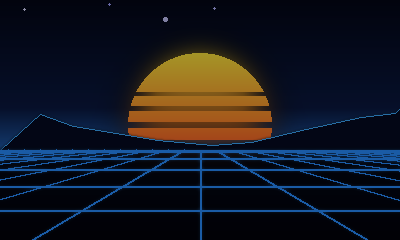
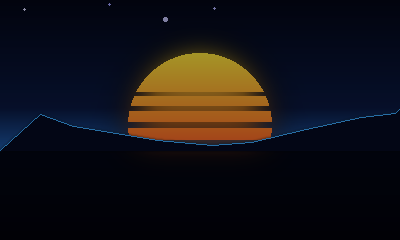
Library: live scrolling grid, 3D depth layers, spring animations
- floor grid drawn live and scrolling; sky, grid, covers and title sit
  at different depths when the 3D slider is up (UI screens can now
  draw per eye via ui_depth())
- carousel moves on a spring, the new cover pops with overshoot and
  bobs, the title slides/fades in, fade-in on open, cover zooms toward
  you and fades out on launch

diff --git a/psx3d/source/libui.c b/psx3d/source/libui.c
@@ -16,7 +16,13 @@ static bool bg_ok;
 static C2D_TextBuf tbuf;
 
 static int sel, list_top;
-static float anim;                 // carousel position, eases toward sel
+static float anim, anim_v;         // carousel position (spring toward sel) and velocity
+static float pop = 1, pop_v;       // selected cover scale (spring, overshoots)
+static float title_t = 1;          // 0..1 title slide/fade-in after a change
+static int title_for = -1;         // game the title animation belongs to
+static float clock_s;              // seconds since the screen opened
+static float fade = 1;             // 1 = black, eases to 0 on open
+static float launch_t = -1;        // >= 0 while the launch zoom plays
 static int rep_l, rep_r, rep_u, rep_d, rep_pl, rep_pr;
 
 // PS-era accent colours, one per game in turn
@@ -79,32 +85,54 @@ static float text_width(C2D_Font font, float size, const char *s)
 }
 
 // a cover, or a placeholder card with the game's initial
-static void draw_cover(int i, float cx, float cy, float size, float dim)
+static void draw_cover(int i, float cx, float cy, float size, float dim, float z)
 {
 	const game_t *g = library_get(i);
 	if (!g)
 		return;
 	float x = cx - size / 2, y = cy - size / 2;
-	// drop shadow
-	C2D_DrawRectSolid(x + 3, y + 4, 0.4f, size, size, C2D_Color32(0, 0, 0, 120));
+	// drop shadow on the "floor", a little behind the cover
+	C2D_DrawRectSolid(x + 4 + ui_depth(1.5f), y + 6, z - 0.01f, size, size, C2D_Color32(0, 0, 0, 110));
 	C3D_Tex *t = covers_get(i);
 	if (t) {
 		Tex3DS_SubTexture st = { COVER_SIZE, COVER_SIZE, 0.0f, 1.0f, 1.0f, 0.0f };
 		C2D_Image img = { t, &st };
 		C2D_ImageTint tint;
 		C2D_PlainImageTint(&tint, C2D_Color32(0, 0, 0, 255), dim);
-		C2D_DrawImageAt(img, x, y, 0.5f, dim > 0 ? &tint : NULL, size / COVER_SIZE, size / COVER_SIZE);
+		C2D_DrawImageAt(img, x, y, z, dim > 0 ? &tint : NULL, size / COVER_SIZE, size / COVER_SIZE);
 	} else {
 		u32 c = *accent(i);
-		C2D_DrawRectangle(x, y, 0.5f, size, size, C2D_Color32(20, 26, 60, 255), C2D_Color32(20, 26, 60, 255),
+		C2D_DrawRectangle(x, y, z, size, size, C2D_Color32(20, 26, 60, 255), C2D_Color32(20, 26, 60, 255),
 			C2D_Color32(8, 10, 28, 255), C2D_Color32(8, 10, 28, 255));
-		C2D_DrawRectSolid(x, y + size - 6, 0.5f, size, 6, c);
+		C2D_DrawRectSolid(x, y + size - 6, z, size, 6, c);
 		char initial[2] = { g->title[0], 0 };
 		float s = size / 60.0f;
-		C2D_Font f = title_font ? title_font : NULL;
-		text(f, cx, cy - 14 * s, s, C2D_Color32(220, 225, 245, 255), C2D_AlignCenter, initial);
+		text(title_font, cx, cy - 14 * s, s, C2D_Color32(220, 225, 245, 255), C2D_AlignCenter, initial);
 		if (dim > 0)
-			C2D_DrawRectSolid(x, y, 0.55f, size, size, C2D_Color32(0, 0, 0, (u8)(dim * 255)));
+			C2D_DrawRectSolid(x, y, z + 0.005f, size, size, C2D_Color32(0, 0, 0, (u8)(dim * 255)));
+	}
+}
+
+// the neon floor, scrolling toward the viewer; each line gets its own depth
+// so the floor recedes into the screen in 3D
+static void draw_grid(void)
+{
+	const float hy = 150, cx = 200;
+	u32 col = C2D_Color32(40, 140, 255, 255), glow = C2D_Color32(40, 140, 255, 70);
+	float scroll = fmodf(clock_s * 0.35f, 1.0f);
+	for (int k = 0; k < 9; k++) {
+		float u = (k + scroll) / 8.0f;           // 0 at the horizon .. 1 at the bottom
+		float y = hy + powf(u, 2.2f) * (240 - hy);
+		if (y > 240) continue;
+		float d = 3.0f * (1.0f - u) - 0.5f;      // far lines deep behind, near ones at the surface
+		float dx = ui_depth(d);
+		C2D_DrawRectSolid(dx, y - 1, 0.15f, 400, 3, glow);
+		C2D_DrawRectSolid(dx, y, 0.16f, 400, 1.2f + 1.2f * u, col);
+	}
+	for (int i = -12; i <= 12; i++) {
+		float x0 = cx + i * 16.0f, x1 = cx + i * 168.0f;
+		C2D_DrawLine(x0 + ui_depth(2.5f), hy, glow, x1 + ui_depth(-0.5f), 240, glow, 4, 0.15f);
+		C2D_DrawLine(x0 + ui_depth(2.5f), hy, col, x1 + ui_depth(-0.5f), 240, col, 1.5f, 0.16f);
 	}
 }
 
@@ -113,10 +141,12 @@ static void draw_top(void *ud)
 	(void)ud;
 	int n = library_count();
 	if (bg_ok)
-		C2D_DrawImageAt(bg_img, 0, 0, 0.1f, NULL, 1.0f, 1.0f);
+		C2D_DrawImageAt(bg_img, ui_depth(3.0f), 0, 0.1f, NULL, 1.0f, 1.0f);   // sky: far back
+	draw_grid();
 
 	// carousel: neighbours first so the selection sits on top
 	float spacing = 116.0f;
+	float bob = sinf(clock_s * 2.0f) * 2.0f;
 	for (int k = 3; k >= 0; k--)
 		for (int side = -1; side <= 1; side += 2) {
 			if (k == 0 && side == 1)
@@ -127,28 +157,51 @@ static void draw_top(void *ud)
 			float d = i - anim;                       // distance from centre
 			float ad = fabsf(d);
 			float size = ad < 1 ? 136 - 48 * ad : 88 - 8 * (ad - 1);
-			float cx = 200 + d * spacing;
+			float cy = 96;
+			if (i == sel) {
+				size *= pop;
+				cy += bob;
+			}
+			if (launch_t >= 0 && i == sel) {
+				// launch: the cover rushes toward you
+				float e = launch_t * launch_t;
+				size *= 1 + e * 2.2f;
+				cy += e * 20;
+			}
+			float depth = ad < 0.5f ? -1.2f + 2.4f * ad : 0.6f + 0.4f * ad;   // selected pops out
+			float cx = 200 + d * spacing + ui_depth(depth);
 			float dim = ad < 1 ? 0.55f * ad : 0.55f + 0.1f * (ad - 1);
 			if (dim > 0.85f) dim = 0.85f;
-			draw_cover(i, cx, 96, size, dim);
+			draw_cover(i, cx, cy, size, dim, 0.5f - ad * 0.02f);
 		}
 
 	const game_t *g = library_get(sel);
-	if (!g)
-		return;
-	// title: brand font, shrunk to fit
-	C2D_Font f = title_font;
-	float size = 0.9f;
-	float w = text_width(f, size, g->title);
-	if (w > 380)
-		size *= 380 / w;
-	text(f, 201, 179, size, C2D_Color32(0, 0, 0, 160), C2D_AlignCenter, g->title);
-	text(f, 200, 178, size, C2D_Color32(255, 255, 255, 255), C2D_AlignCenter, g->title);
-	if (g->ndiscs > 1) {
-		char d[32];
-		snprintf(d, sizeof(d), "%d discs", g->ndiscs);
-		text(NULL, 200, 214, 0.45f, C2D_Color32(170, 185, 230, 255), C2D_AlignCenter, d);
+	if (g && launch_t < 0) {
+		// title slides up and fades in after the selection changes
+		float e = 1 - (1 - title_t) * (1 - title_t);
+		u8 a = (u8)(255 * e);
+		float ty = 178 + (1 - e) * 10;
+		C2D_Font f = title_font;
+		float size = 0.9f;
+		float w = text_width(f, size, g->title);
+		if (w > 380)
+			size *= 380 / w;
+		float tx = 200 + ui_depth(-0.8f);   // floats just in front of the screen
+		text(f, tx + 1, ty + 1, size, C2D_Color32(0, 0, 0, a * 5 / 8), C2D_AlignCenter, g->title);
+		text(f, tx, ty, size, C2D_Color32(255, 255, 255, a), C2D_AlignCenter, g->title);
+		if (g->ndiscs > 1) {
+			char dd[32];
+			snprintf(dd, sizeof(dd), "%d discs", g->ndiscs);
+			text(NULL, tx, ty + 36, 0.45f, C2D_Color32(170, 185, 230, a), C2D_AlignCenter, dd);
+		}
 	}
+
+	// fade from/to black (open, launch)
+	float f = fade;
+	if (launch_t >= 0)
+		f = launch_t > 0.4f ? (launch_t - 0.4f) / 0.6f : 0;
+	if (f > 0.001f)
+		C2D_DrawRectSolid(0, 0, 0.9f, 400, 240, C2D_Color32(0, 0, 0, (u8)(255 * (f > 1 ? 1 : f))));
 }
 
 static void draw_bottom(void *ud)
@@ -203,6 +256,7 @@ void libui_select_title(const char *title)
 		if (!strcmp(library_get(i)->title, title)) {
 			sel = i;
 			anim = i;
+			title_for = i;
 			clamp_list();
 			return;
 		}
@@ -224,6 +278,8 @@ int libui_run(char *out_path, size_t len)
 	clamp_list();
 
 	music_play(true);
+	ui_wants_3d = true;
+	fade = 1;
 	while (aptMainLoop()) {
 		input_poll();
 		u32 k = input_keys_down(), h = input_keys_held();
@@ -232,10 +288,12 @@ int libui_run(char *out_path, size_t len)
 
 		if (k & KEY_START) {
 			music_play(false);
+			ui_wants_3d = false;
 			return 0;
 		}
 		if (k & KEY_Y) {
 			sfx_play(SFX_SELECT);
+			ui_wants_3d = false;
 			return 2;
 		}
 		if (k & KEY_SELECT) {
@@ -275,21 +333,42 @@ int libui_run(char *out_path, size_t len)
 				config_save();
 				// launch sound, music fades out while it plays
 				sfx_play(SFX_LAUNCH);
-				for (int f = 0; f < 30 && aptMainLoop(); f++) {
+				for (int f = 0; f <= 36 && aptMainLoop(); f++) {
+					launch_t = f / 36.0f;
+					clock_s += 1.0f / 60.0f;
+					music_update();
 					C2D_TextBufClear(tbuf);
 					ui_begin();
 					video_present_vsync(false, draw_top, draw_bottom, NULL);
 				}
+				launch_t = -1;
+				fade = 1;
 				music_play(false);
+				ui_wants_3d = false;
 				return 1;
 			}
 		}
 
 		music_update();
-		// ease the carousel toward the selection
-		anim += (sel - anim) * 0.25f;
-		if (fabsf(sel - anim) < 0.01f)
+		// springs: carousel glides to the selection, the new cover pops
+		const float dt = 1.0f / 60.0f;
+		clock_s += dt;
+		anim_v += ((sel - anim) * 180.0f - anim_v * 22.0f) * dt;
+		anim += anim_v * dt;
+		if (fabsf(sel - anim) < 0.002f && fabsf(anim_v) < 0.01f) {
 			anim = sel;
+			anim_v = 0;
+		}
+		if (title_for != sel) {
+			title_for = sel;
+			title_t = 0;
+			pop = 0.88f;
+			pop_v = 0;
+		}
+		pop_v += ((1.0f - pop) * 260.0f - pop_v * 14.0f) * dt;
+		pop += pop_v * dt;
+		if (title_t < 1) title_t = fminf(1, title_t + dt * 5);
+		if (fade > 0) fade = fmaxf(0, fade - dt * 3);
 		// the selection first, then outward: what's on screen loads first
 		covers_focus(sel);
 		for (int d = 0; d <= 4; d++) {

diff --git a/psx3d/source/video.c b/psx3d/source/video.c
@@ -18,6 +18,12 @@
 
 static C3D_RenderTarget *top, *top_r, *bottom;
 static bool stereo_on;
+// UI screens in 3D: draw_top is called once per eye; ui_eye is -1 (left),
+// +1 (right) or 0 (no 3D). A layer at depth d (>0 behind the screen, <0 in
+// front) is shifted by ui_eye * d * ui_parallax pixels.
+int ui_eye;
+float ui_parallax;
+bool ui_wants_3d;
 
 // 3D slider fully up pushes the game picture this many pixels behind the screen
 #define MAX_DEPTH_PX 8.0f
@@ -266,7 +272,9 @@ void video_present(bool show_game, void (*draw_top)(void *),
 	// PSX3D's overlays (FPS, messages) stay on the screen surface. Each eye
 	// sees the picture shifted the opposite way.
 	float slider = osGet3DSliderState();
-	bool stereo = show_game && g_cfg.stereo && slider > 0.01f;
+	bool ui3d = !show_game && ui_wants_3d && g_cfg.stereo && slider > 0.01f;
+	bool stereo = (show_game && g_cfg.stereo && slider > 0.01f) || ui3d;
+	ui_parallax = ui3d ? slider * 6.0f : 0.0f;
 	if (stereo != stereo_on) {
 		gfxSet3D(stereo);
 		stereo_on = stereo;
@@ -302,6 +310,7 @@ void video_present(bool show_game, void (*draw_top)(void *),
 	}
 	else if (show_game)
 		draw_game(-depth);
+	ui_eye = ui3d ? -1 : 0;
 	if (draw_top)
 		draw_top(ud);
 
@@ -314,10 +323,12 @@ void video_present(bool show_game, void (*draw_top)(void *),
 			if (hud)
 				draw_hud(gx0, gdw, -hud_dx);
 		}
-		else
+		else if (show_game)
 			draw_game(depth);
+		ui_eye = ui3d ? 1 : 0;
 		if (draw_top)
 			draw_top(ud);
+		ui_eye = 0;
 	}
 
 	if (draw_bottom) {

diff --git a/tools/make_logo.py b/tools/make_logo.py
@@ -37,7 +37,7 @@ def glow(layer, radius, strength=1.0):
         g.putalpha(a)
     return g
 
-def scene(W, H, horizon, show_shapes=True, show_sun=True):
+def scene(W, H, horizon, show_shapes=True, show_sun=True, show_grid=True):
     sky = vgrad(W, H, [(0, (3, 6, 22, 255)), (0.45, (10, 24, 64, 255)),
                        (horizon / H, (30, 90, 170, 255)), (horizon / H + 0.001, (3, 6, 20, 255)),
                        (1, (1, 2, 10, 255))])
@@ -107,6 +107,8 @@ def scene(W, H, horizon, show_shapes=True, show_sun=True):
     sky = Image.alpha_composite(sky, glow(mtn, H / 200, 1.0))
     sky = Image.alpha_composite(sky, mtn)
 
+    if not show_grid:
+        return sky
     # perspective grid floor
     grid = Image.new("RGBA", (W, H), (0, 0, 0, 0))
     gd = ImageDraw.Draw(grid)
@@ -223,6 +225,6 @@ print("ok")
 
 # library background: the scene without the logo, sun lower and dimmer so
 # box art stands out in front of it
-bg = scene(400, 240, 150, show_shapes=False)
+bg = scene(400, 240, 150, show_shapes=False, show_grid=False)  # grid is drawn live
 dim = Image.new("RGBA", bg.size, (0, 0, 0, 90))
 Image.alpha_composite(bg, dim).convert("RGB").save(f"{OUT}/library_bg.png")

diff --git a/psx3d/source/psx3d.h b/psx3d/source/psx3d.h
@@ -65,6 +65,11 @@ void video_present(bool show_game, void (*draw_top)(void *),
 void video_present_vsync(bool show_game, void (*draw_top)(void *),
 	void (*draw_bottom)(void *), void *ud);
 C3D_RenderTarget *video_bottom_target(void);
+extern int ui_eye;
+extern float ui_parallax;
+extern bool ui_wants_3d;
+// x shift for a UI layer at depth d (>0 behind the screen, <0 in front)
+static inline float ui_depth(float d) { return ui_eye * d * ui_parallax; }
 u64 video_take_wait_ticks(void);
 u64 video_take_xfer_ticks(void);
 
